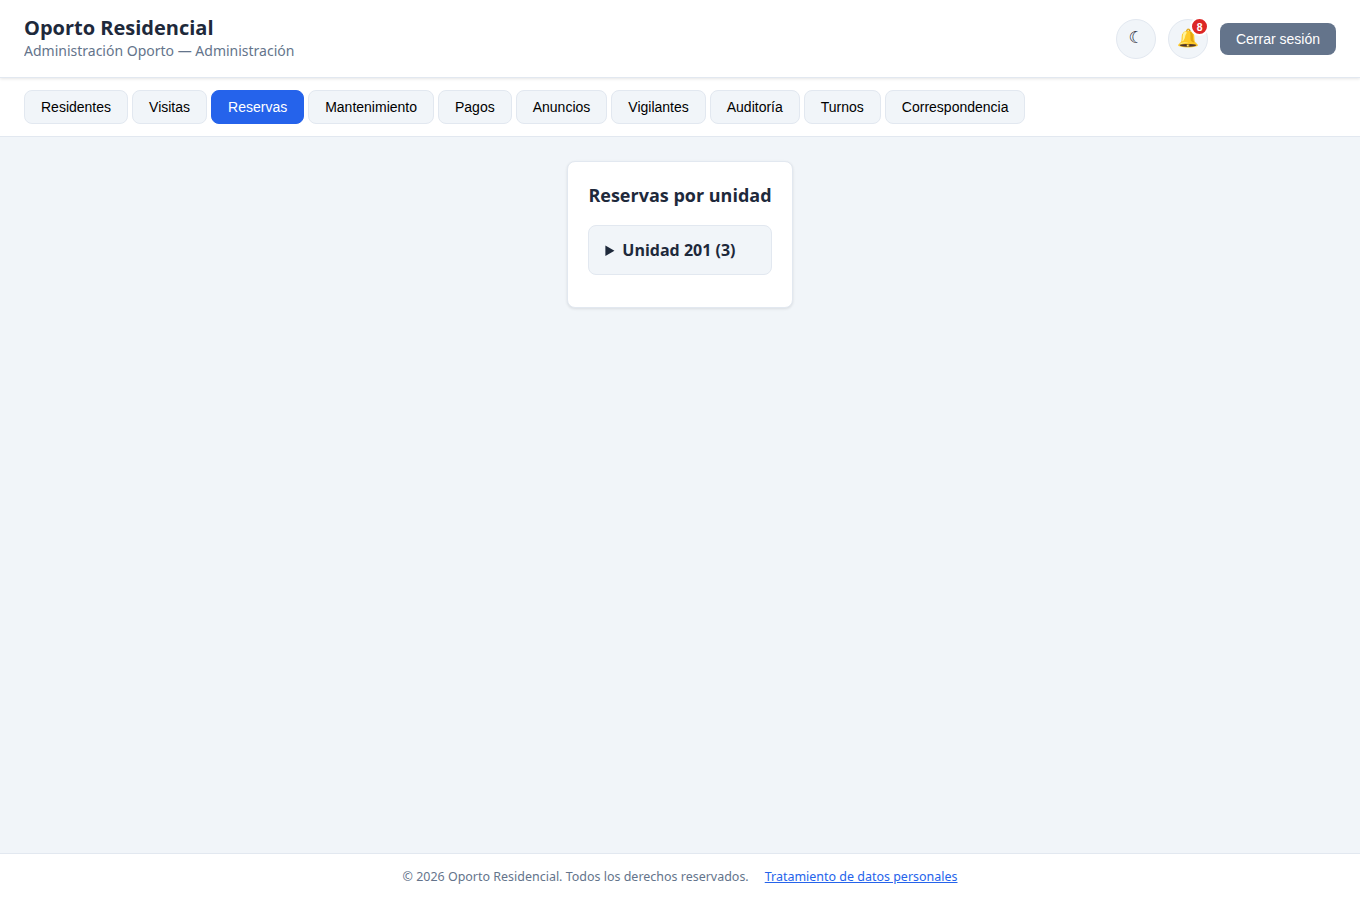
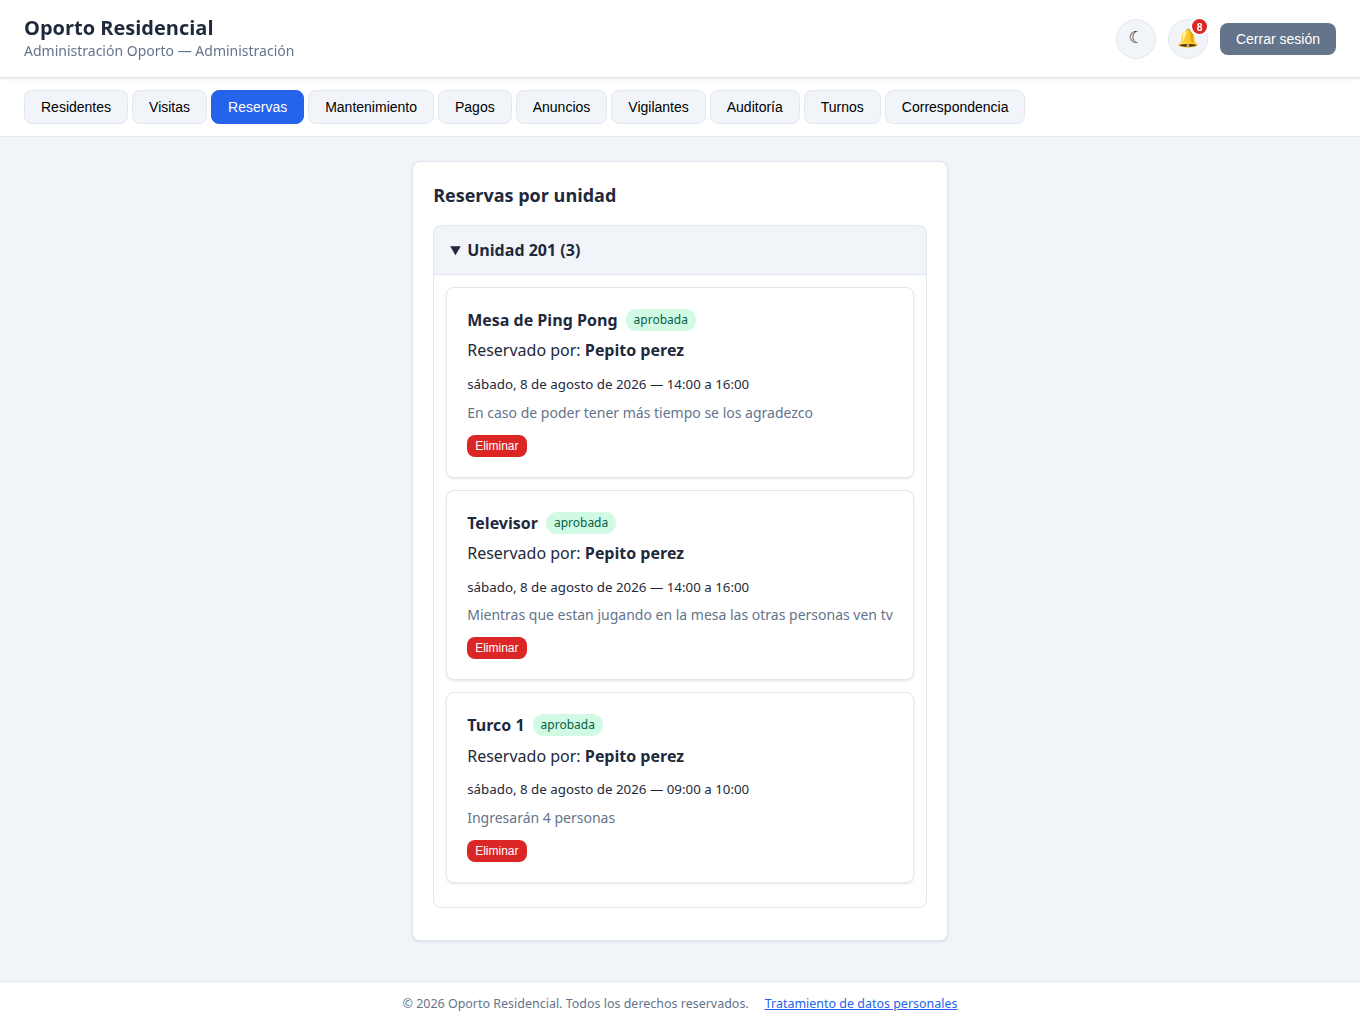
Replace sparse manual screenshots with expanded real UI captures.
Updates admin reservations, guard reservations, and correspondence
history images so unit groups are open and content is visible.

diff --git a/docs/manual-administradora/Manual-Oporto-Residencial.html b/docs/manual-administradora/Manual-Oporto-Residencial.html
@@ -5,7 +5,7 @@
   <meta name="viewport" content="width=device-width, initial-scale=1" />
   <title>Manual de uso — Oporto Residencial</title>
   <style>
-    :root { --ink:#1a2744; --muted:#5b6b86; --line:#d7e0ef; --bg:#f4f7fc; --card:#fff; --accent:#2f6fed; }
+    :root { --ink:#1a2744; --muted:#5b6b86; --line:#d7e0ef; --card:#fff; --accent:#2f6fed; }
     * { box-sizing: border-box; }
     body { margin:0; font-family: "Segoe UI", "Helvetica Neue", Arial, sans-serif; background: linear-gradient(180deg,#e8eef8,#f7f9fc 220px,#f7f9fc); color: var(--ink); line-height: 1.55; }
     .wrap { max-width: 960px; margin: 0 auto; padding: 28px 18px 80px; }
@@ -14,7 +14,6 @@
     h1 { font-size: 2rem; margin-top: 0; }
     h2 { border-top: 1px solid var(--line); padding-top: 1.5rem; margin-top: 2.2rem; color: #1e335c; }
     h3 { color: #27406f; margin-top: 1.6rem; }
-    p, li { color: #243247; }
     img { max-width: 100%; height: auto; border: 1px solid var(--line); border-radius: 12px; margin: 14px 0 8px; box-shadow: 0 8px 24px rgba(26,39,68,.08); background:#fff; }
     table { width: 100%; border-collapse: collapse; margin: 14px 0 22px; font-size: .95rem; }
     th, td { border: 1px solid var(--line); padding: 10px 12px; text-align: left; vertical-align: top; }
@@ -22,20 +21,10 @@
     blockquote { border-left: 4px solid var(--accent); margin: 16px 0; padding: 10px 16px; background: #f3f7ff; color: #334; border-radius: 0 10px 10px 0; }
     code { background: #eef2f8; padding: 1px 6px; border-radius: 6px; font-family: ui-monospace, Consolas, monospace; font-size: .92em; }
     a { color: var(--accent); }
-    hr { border: 0; border-top: 1px solid var(--line); margin: 2rem 0; }
-    .note { margin-top: 28px; color: var(--muted); font-size: .92rem; }
-    @media print {
-      body { background: #fff; }
-      article { box-shadow: none; border: none; padding: 0; }
-      img { break-inside: avoid; box-shadow: none; }
-      h2 { break-before: page; }
-      h2:first-of-type { break-before: auto; }
-    }
   </style>
 </head>
 <body>
-  <div class="wrap">
-    <article>
+  <div class="wrap"><article>
 <h1>Manual de uso — Oporto Residencial</h1>
 <p><strong>Destinatario:</strong> Administración del conjunto<br />
 <strong>Propósito:</strong> Explicar, de forma clara y con capturas reales del sistema, qué se puede hacer en cada módulo según el perfil de usuario.<br />
@@ -565,7 +554,6 @@ Menú disponible:</p>
 <p>Carpeta de imágenes: <code>docs/manual-administradora/imagenes/</code></p>
 <hr />
 <p><em>Documento generado para revisión de Administración — Oporto Residencial © 2026</em></p>
-    </article>
-  </div>
+  </article></div>
 </body>
 </html>
